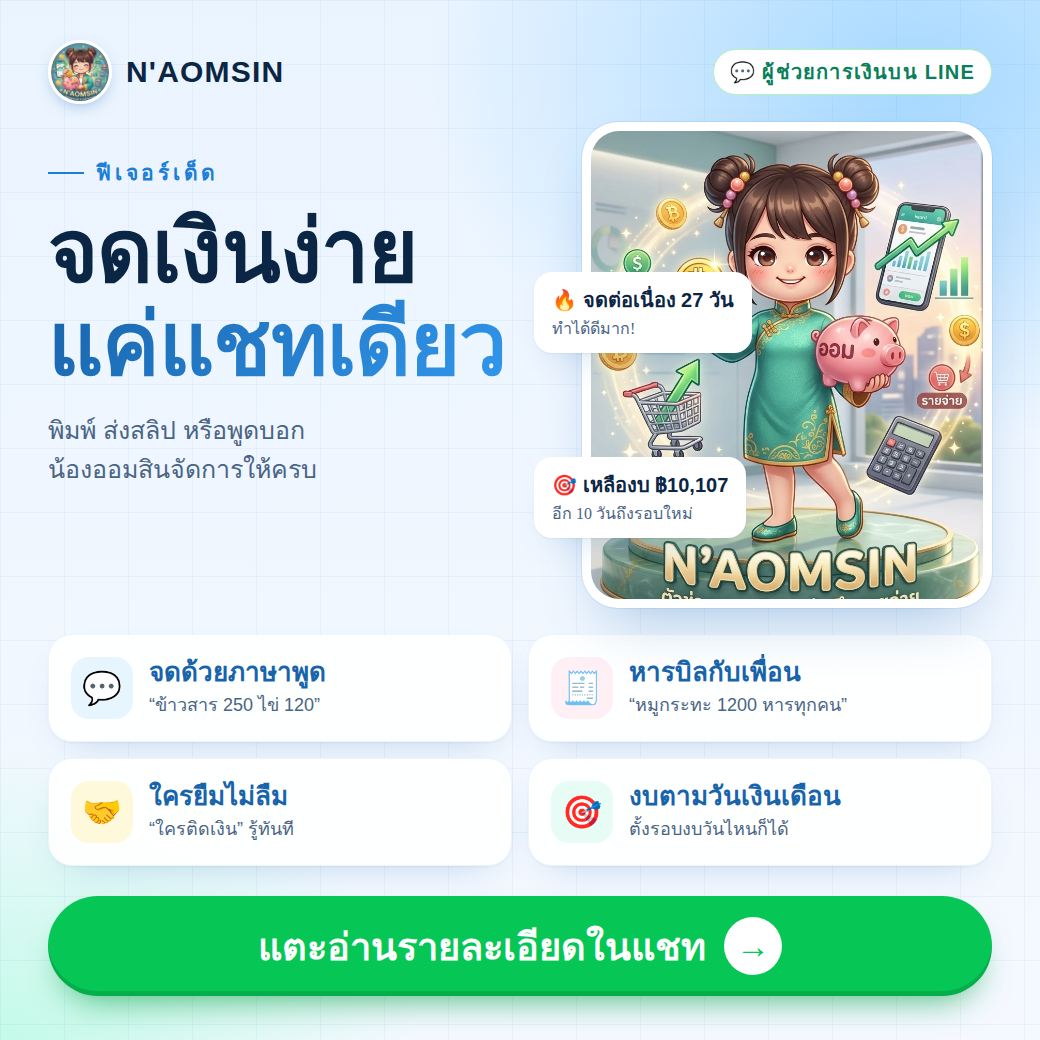
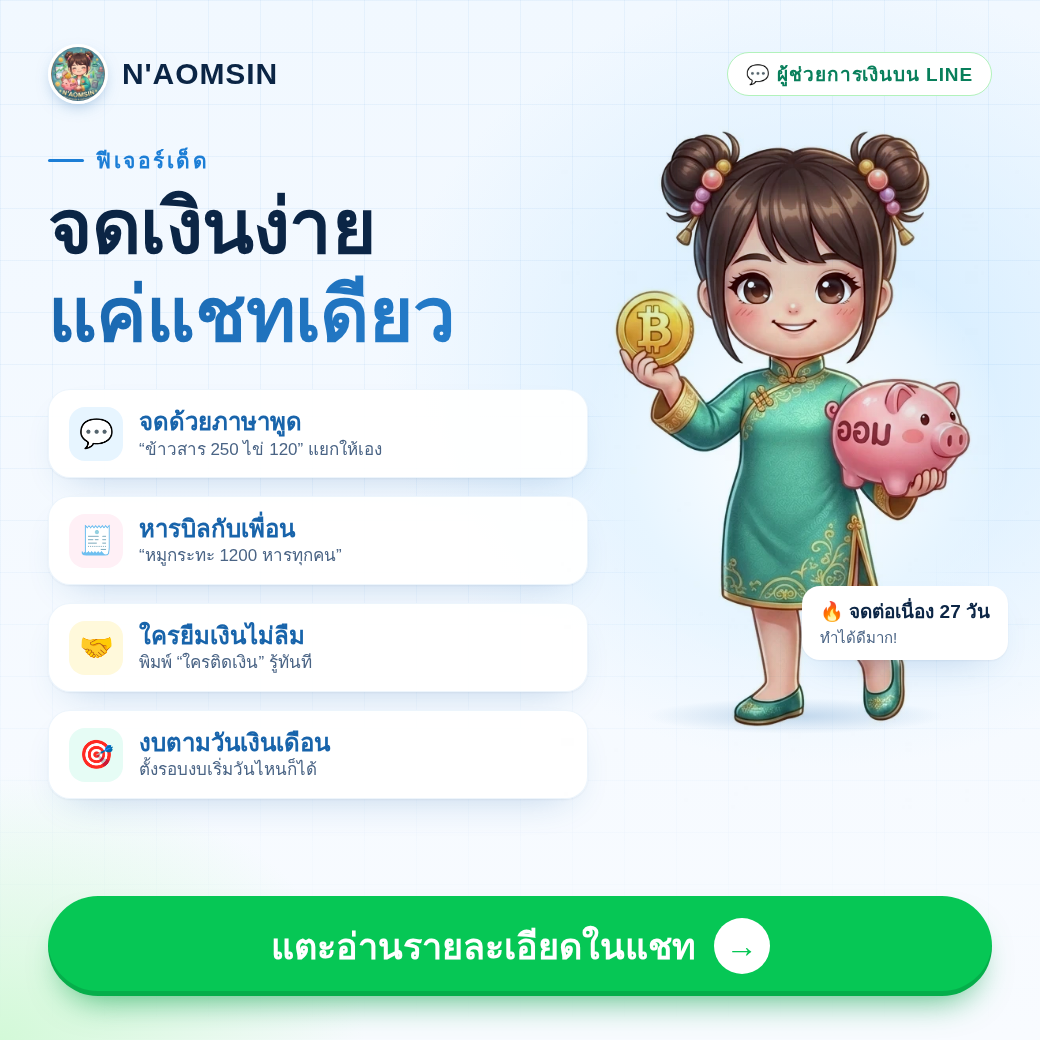
Rebuild rich message layout with standalone mascot and Noto Sans Thai
Claude-Session: https://claude.ai/code/session_01LT69hJQazZ63fn8oLmAivz

diff --git a/richmessage/features.html b/richmessage/features.html
@@ -1,52 +1,48 @@
-<!doctype html><html><head><meta charset="utf-8">
-<link href="https://fonts.googleapis.com/css2?family=IBM+Plex+Sans+Thai:wght@500;600;700&family=Noto+Sans+Thai:wght@400;500;600&display=block" rel="stylesheet">
+<!doctype html><html lang="th"><head><meta charset="utf-8">
+<link href="https://fonts.googleapis.com/css2?family=Noto+Sans+Thai:wght@400;500;600;700;800&display=block" rel="stylesheet">
 <style>
-:root{--head:'IBM Plex Sans Thai','Noto Sans Thai',sans-serif;--ink:#0B2545;--sub:#4A6485;--blue:#1C7ED6;--sky:#1864AB;--line-green:#06C755;
---glow:0 0 0 1px rgba(28,126,214,.10),0 28px 60px -24px rgba(24,100,171,.38);--card:0 1px 2px rgba(11,37,69,.05),0 16px 40px -22px rgba(24,100,171,.30)}
+:root{--ink:#0B2545;--sub:#4A6485;--blue:#1C7ED6;--sky:#1864AB;--green:#06C755;
+--card:0 1px 2px rgba(11,37,69,.05),0 16px 40px -22px rgba(24,100,171,.32)}
 *{box-sizing:border-box;margin:0}
 body{width:1040px;height:1040px;overflow:hidden;font-family:'Noto Sans Thai',sans-serif;color:var(--ink);position:relative;
-background:radial-gradient(700px 520px at 88% 8%,#A5D8FF 0%,rgba(165,216,255,0) 70%),radial-gradient(600px 420px at 0% 100%,#C3FAE8 0%,rgba(195,250,232,0) 70%),linear-gradient(180deg,#EAF4FF,#F5F9FF)}
-body:before{content:"";position:absolute;inset:0;background-image:linear-gradient(rgba(28,126,214,.06) 1px,transparent 1px),linear-gradient(90deg,rgba(28,126,214,.06) 1px,transparent 1px);background-size:64px 64px}
-.wrap{position:relative;height:100%;padding:40px 48px 44px;display:flex;flex-direction:column}
-.brand{display:flex;align-items:center;gap:14px;font-family:var(--head);font-weight:700;font-size:30px;letter-spacing:.04em}
-.logo{width:64px;height:64px;border-radius:50%;overflow:hidden;box-shadow:0 6px 18px -8px rgba(24,100,171,.6);border:3px solid #fff}
+background:radial-gradient(640px 560px at 80% 36%,#D0EBFF 0%,rgba(208,235,255,0) 70%),radial-gradient(520px 380px at 0% 100%,#D3F9D8 0%,rgba(211,249,216,0) 70%),linear-gradient(180deg,#F1F8FF,#F8FBFF)}
+body:before{content:"";position:absolute;inset:0;background-image:linear-gradient(rgba(28,126,214,.055) 1px,transparent 1px),linear-gradient(90deg,rgba(28,126,214,.055) 1px,transparent 1px);background-size:52px 52px;-webkit-mask:linear-gradient(180deg,#000 40%,transparent)}
+.wrap{position:relative;height:100%;padding:44px 48px 44px}
+.brand{display:flex;align-items:center;gap:14px;font-weight:800;font-size:30px;letter-spacing:.03em}
+.logo{width:60px;height:60px;border-radius:50%;overflow:hidden;border:3px solid #fff;box-shadow:0 6px 18px -8px rgba(24,100,171,.6)}
 .logo img{width:106%;height:106%;margin:-3%;object-fit:cover}
-.pill{margin-left:auto;font-family:var(--head);font-size:20px;font-weight:600;color:#087F5B;background:#fff;border:1.5px solid #B2F2BB;padding:6px 16px;border-radius:999px}
-.hero{display:flex;gap:24px;margin-top:18px;height:486px}
-.copy{flex:1;padding-top:34px}
-.eyebrow{font-family:var(--head);color:var(--blue);font-weight:600;font-size:21px;letter-spacing:.18em;display:flex;align-items:center;gap:12px}
-.eyebrow:before{content:"";width:36px;height:2px;background:var(--blue)}
-h1{font-family:var(--head);font-weight:700;font-size:86px;line-height:1.08;margin-top:16px;letter-spacing:-.01em}
+.pill{margin-left:auto;font-size:19px;font-weight:600;color:#087F5B;background:#fff;border:1.5px solid #B2F2BB;padding:6px 18px;border-radius:999px}
+.eyebrow{margin-top:40px;color:var(--blue);font-weight:700;font-size:21px;letter-spacing:.12em;display:flex;align-items:center;gap:12px}
+.eyebrow:before{content:"";width:36px;height:2.5px;border-radius:2px;background:var(--blue)}
+h1{font-weight:800;font-size:76px;line-height:1.16;margin-top:6px;letter-spacing:-.01em}
 h1 span{display:block;background:linear-gradient(135deg,#1864AB,#339AF0);-webkit-background-clip:text;color:transparent}
-.lead{font-size:25px;color:var(--sub);line-height:1.55;margin-top:20px}
-.pic{position:relative;width:430px}
-.frame{position:absolute;inset:0 0 0 20px;border-radius:36px;background:#fff;padding:9px;box-shadow:var(--glow)}
-.frame div{width:100%;height:100%;border-radius:28px;background:url(assets/mascot-scene.webp) 50% 30%/135% auto no-repeat}
-.float{position:absolute;background:#fff;border-radius:18px;padding:12px 18px;box-shadow:var(--card);font-family:var(--head);font-weight:600;font-size:20px;white-space:nowrap}
-.float small{display:block;font-family:'Noto Sans Thai';font-weight:400;color:var(--sub);font-size:16px}
-.f1{left:-28px;top:150px}.f2{left:-28px;bottom:70px}
-.grid{display:grid;grid-template-columns:1fr 1fr;gap:16px;margin-top:26px}
-.card{background:rgba(255,255,255,.92);border-radius:24px;padding:22px 22px;display:flex;align-items:center;gap:16px;box-shadow:var(--card);border:1px solid rgba(28,126,214,.08)}
-.ic{flex:none;width:62px;height:62px;border-radius:18px;display:grid;place-items:center;font-size:32px}
-.card h3{font-family:var(--head);font-weight:700;font-size:26px;color:var(--sky);line-height:1.2}
-.card p{font-size:18px;color:var(--sub);margin-top:2px}
-.cta{margin-top:auto;height:100px;border-radius:999px;background:var(--line-green);color:#fff;display:flex;align-items:center;justify-content:center;gap:18px;font-family:var(--head);font-weight:700;font-size:38px;box-shadow:0 18px 34px -16px rgba(6,160,70,.75),inset 0 -5px 0 rgba(0,0,0,.12)}
-.cta .ar{width:58px;height:58px;border-radius:50%;background:#fff;color:var(--line-green);display:grid;place-items:center;font-size:34px}
+.list{margin-top:30px;width:540px;display:flex;flex-direction:column;gap:18px}
+.item{display:flex;align-items:center;gap:16px;background:rgba(255,255,255,.94);border:1px solid rgba(28,126,214,.08);border-radius:22px;padding:16px 20px;box-shadow:var(--card)}
+.ic{flex:none;width:54px;height:54px;border-radius:16px;display:grid;place-items:center;font-size:28px}
+.item h3{font-size:24px;font-weight:700;color:var(--sky);line-height:1.3}
+.item p{font-size:17px;color:var(--sub);line-height:1.4}
+.stage{position:absolute;right:10px;top:110px;width:470px;height:720px}
+.halo{position:absolute;left:50%;top:48%;width:420px;height:420px;transform:translate(-50%,-50%);border-radius:50%;background:radial-gradient(circle,#fff 0%,#E7F5FF 55%,rgba(231,245,255,0) 72%)}
+.mascot{position:absolute;inset:0;background:url(assets/mascot.webp) 52% 46%/ 172% auto no-repeat;mix-blend-mode:multiply}
+.floor{position:absolute;left:50%;bottom:96px;width:300px;height:36px;transform:translateX(-50%);border-radius:50%;background:radial-gradient(ellipse,rgba(24,100,171,.22),rgba(24,100,171,0) 70%)}
+.bubble{position:absolute;background:#fff;border-radius:18px;padding:10px 18px;box-shadow:var(--card);font-weight:700;font-size:19px;white-space:nowrap}
+.bubble small{display:block;font-weight:400;color:var(--sub);font-size:15px}
+.b1{right:6px;top:40px;border-bottom-left-radius:6px}
+.b2{right:22px;bottom:170px}
+.cta{position:absolute;left:48px;right:48px;bottom:44px;height:100px;border-radius:999px;background:var(--green);color:#fff;display:flex;align-items:center;justify-content:center;gap:18px;font-weight:700;font-size:36px;box-shadow:0 18px 34px -16px rgba(6,160,70,.75),inset 0 -5px 0 rgba(0,0,0,.12)}
+.cta .ar{width:56px;height:56px;border-radius:50%;background:#fff;color:var(--green);display:grid;place-items:center;font-size:32px;font-weight:800}
 </style></head><body><div class="wrap">
-<div class="brand"><div class="logo"><img src="assets/logo-badge.jpg"></div>N'AOMSIN<span class="pill">💬 ผู้ช่วยการเงินบน LINE</span></div>
-<div class="hero">
- <div class="copy"><div class="eyebrow">ฟีเจอร์เด็ด</div>
- <h1>จดเงินง่าย<span>แค่แชทเดียว</span></h1>
- <p class="lead">พิมพ์ ส่งสลิป หรือพูดบอก<br>น้องออมสินจัดการให้ครบ</p></div>
- <div class="pic"><div class="frame"><div></div></div>
-  <div class="float f1">🔥 จดต่อเนื่อง 27 วัน<small>ทำได้ดีมาก!</small></div>
-  <div class="float f2">🎯 เหลืองบ ฿10,107<small>อีก 10 วันถึงรอบใหม่</small></div></div>
+<div class="brand"><div class="logo"><img src="assets/logo-badge.jpg" alt=""></div>N'AOMSIN<span class="pill">💬 ผู้ช่วยการเงินบน LINE</span></div>
+<div class="eyebrow">ฟีเจอร์เด็ด</div>
+<h1>จดเงินง่าย<span>แค่แชทเดียว</span></h1>
+<div class="list">
+ <div class="item"><div class="ic" style="background:#E7F5FF">💬</div><div><h3>จดด้วยภาษาพูด</h3><p>“ข้าวสาร 250 ไข่ 120” แยกให้เอง</p></div></div>
+ <div class="item"><div class="ic" style="background:#FFF0F6">🧾</div><div><h3>หารบิลกับเพื่อน</h3><p>“หมูกระทะ 1200 หารทุกคน”</p></div></div>
+ <div class="item"><div class="ic" style="background:#FFF9DB">🤝</div><div><h3>ใครยืมเงินไม่ลืม</h3><p>พิมพ์ “ใครติดเงิน” รู้ทันที</p></div></div>
+ <div class="item"><div class="ic" style="background:#E6FCF5">🎯</div><div><h3>งบตามวันเงินเดือน</h3><p>ตั้งรอบงบเริ่มวันไหนก็ได้</p></div></div>
 </div>
-<div class="grid">
- <div class="card"><div class="ic" style="background:#E7F5FF">💬</div><div><h3>จดด้วยภาษาพูด</h3><p>“ข้าวสาร 250 ไข่ 120”</p></div></div>
- <div class="card"><div class="ic" style="background:#FFF0F6">🧾</div><div><h3>หารบิลกับเพื่อน</h3><p>“หมูกระทะ 1200 หารทุกคน”</p></div></div>
- <div class="card"><div class="ic" style="background:#FFF9DB">🤝</div><div><h3>ใครยืมไม่ลืม</h3><p>“ใครติดเงิน” รู้ทันที</p></div></div>
- <div class="card"><div class="ic" style="background:#E6FCF5">🎯</div><div><h3>งบตามวันเงินเดือน</h3><p>ตั้งรอบงบวันไหนก็ได้</p></div></div>
-</div>
+<div class="stage"><div class="halo"></div><div class="floor"></div><div class="mascot"></div>
+ 
+ <div class="bubble b2">🔥 จดต่อเนื่อง 27 วัน<small>ทำได้ดีมาก!</small></div></div>
 <div class="cta">แตะอ่านรายละเอียดในแชท <span class="ar">→</span></div>
 </div></body></html>
